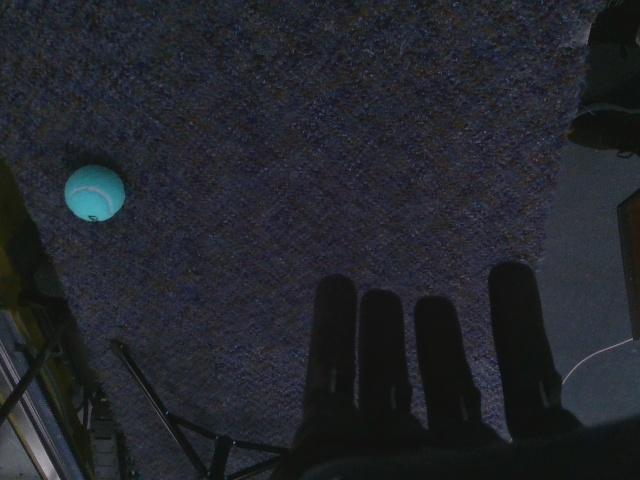
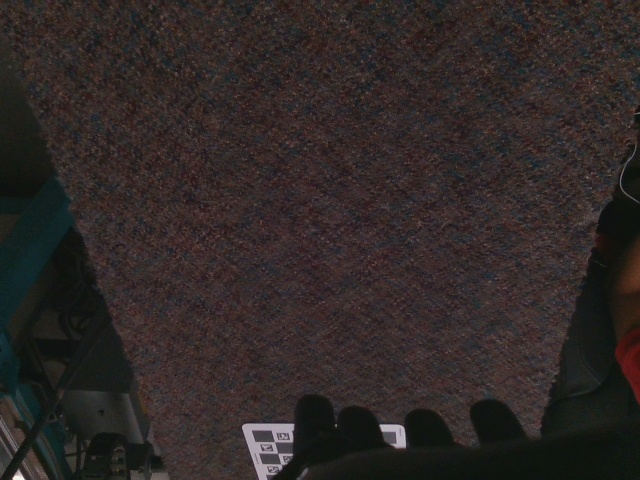
i left auto white balance on accidentally oops - fixed nondetection bug

diff --git a/combinedtest.py b/combinedtest.py
@@ -17,6 +17,7 @@ from ah_wrapper import AHSerialClient
 import pyrealsense2 as rs
 
 armHome = (-60*3.14/180, -25*3.14/180, 113*3.14/180, 126*3.14/180, -323*3.14/180, 147*3.14/180)
+# armHome = (-96.2*3.14/180, -1.8*3.14/180, 135.4*3.14/180, 160.4*3.14/180, -352.0*3.14/180, 60.7*3.14/180)
 
 handOpen = [2.5, 2.5, 2.5, 2.5, 2.5, -35]
 handMiddle = [30, 30, 30, 30, 2.5, -99]
@@ -27,7 +28,7 @@ handClosed = [45, 45, 45, 45, 22, -99]
 # for all 3 HSV channels.
 ballColor = ([9,110,20], [75,205,196])
 
-ballDiameter = 0.065  # m (standard tennis ball)
+ballDiameter = 0.066  # m (standard tennis ball)
 ballRadius = ballDiameter / 2
 
 # The hand-measured offsets below (grasp point and camera, measured in the
@@ -112,7 +113,7 @@ cameraSettings = {
     "sharpness": 50,
     "hue": 0,
     "white_balance": 4600,
-    "auto_white_balance": True,
+    "auto_white_balance": False,
 }
 
 # --- pickup-routine tuning
@@ -145,13 +146,15 @@ def main():
         print("waiting for a ball...")
 
         while True:
-            lastT, detected, joints = perceiveBall(arm, cam, kf, lastT)
+            lastT, detected, joints = perceiveBall(
+                arm, cam, kf, lastT, debug=state == "waiting")
             pos = kf.position
             target = None
             if pos is not None and isValidBallPosition(pos):
                 target = ballJointTarget(pos, joints)
 
             if state == "waiting":
+                print(kf.position)
                 if detected and target is not None:
                     history.append((lastT, pos.copy()))
                     while history and lastT - history[0][0] > waitingStableS + 0.2:
@@ -181,7 +184,7 @@ def main():
                     if moveArm(arm, target, speedScale=routineSpeedScale):
                         lastSent = target
 
-def perceiveBall(arm, cam, kf, lastT):
+def perceiveBall(arm, cam, kf, lastT, debug=False):
     """One vision tick: predict the kf and fold in a detection when there is
     one. Measurements are accepted while the arm moves: there is no hardware
     sync between frame and pose, so a mid-motion measurement is stale by up
@@ -191,6 +194,9 @@ def perceiveBall(arm, cam, kf, lastT):
     clipped by the frame edge are rejected in fitCircleInArray; on any miss
     (occlusion by the hand included) the zero-velocity kf just coasts.
 
+    When debug is set (the routine passes it while waiting) the current frame
+    and the labelled mask are dumped to disk for a remote viewer.
+
     Returns (timestamp, updated: bool, current joints)."""
     for _ in range(2):  # flush so the frame is current
         frame, depthM, intr = getFrames(cam)
@@ -199,13 +205,35 @@ def perceiveBall(arm, cam, kf, lastT):
     now = monotonic()
     kf.predict(now - lastT)
 
-    fit = fitCircleInArray(maskBall(frame))
+    mask = maskBall(frame)
+    fit = fitCircleInArray(mask)
+    if debug:
+        writeDebugFrames(frame, mask, fit)
     if fit is None:
         return now, False, joints
 
     pCam = ballCenterInCam(fit[0], fit[1], depthM, intr)
     kf.update((T @ camInTooltip @ np.append(pCam, 1.0))[:3])
     return now, True, joints
+
+debugFrameFile = Path(__file__).with_name("frame.jpeg")
+debugFilteredFile = Path(__file__).with_name("filtered.jpeg")
+
+def writeDebugFrames(frame, mask, fit):
+    """Dump the current camera view (frame.jpeg) and the ball mask with the
+    fitted circle drawn on it (filtered.jpeg) next to this file.
+
+    frame is RGB (RealSense order) so it is flipped to BGR for cv2.imwrite;
+    mask is the binary HSV mask, shown in grey with the detection circled in
+    red (centre dot in green) when fitCircleInArray accepted a ball."""
+    cv2.imwrite(str(debugFrameFile), cv2.cvtColor(frame, cv2.COLOR_RGB2BGR))
+    labeled = cv2.cvtColor(mask, cv2.COLOR_GRAY2BGR)
+    if fit is not None:
+        (x, y), diameter = fit
+        center = (int(round(x)), int(round(y)))
+        cv2.circle(labeled, center, int(round(diameter / 2)), (0, 0, 255), 2)
+        cv2.circle(labeled, center, 2, (0, 255, 0), -1)
+    cv2.imwrite(str(debugFilteredFile), labeled)
 
 def armReached(current, target, tol=reachedTolRad):
     """True when every joint is within tol of the target (2*pi-wrapped)."""
